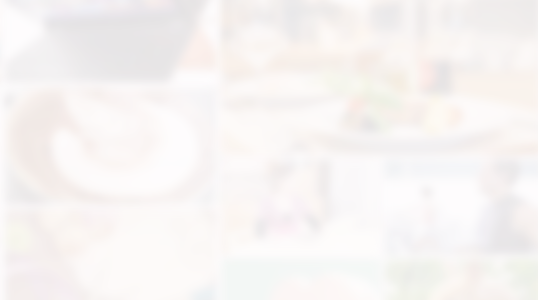
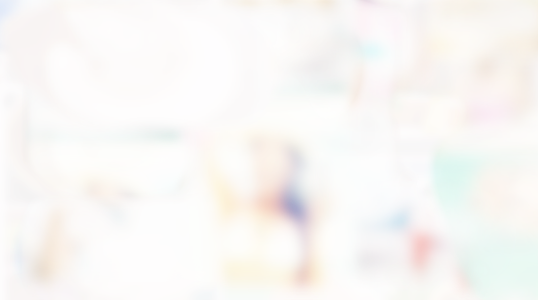
homepage collage, login bg, fix some responsive problem, add media query variables

diff --git a/index.html b/index.html
@@ -46,7 +46,7 @@
             <form class="navbar-form navbar-left" role="search" action="/search-result.php" method="POST">
               <div class="form-group t5-nav-search">
                 <input type="text" name="keyword" class="form-control typeahead" placeholder="Search for people, lists, things, etc...">
-				<button type="submit"></button>
+				        <button type="submit"></button>
               </div>
             </form>
 <!--
@@ -55,24 +55,11 @@
             </ul>
 -->
             
-            <!-- ***User - Name & Setting button*** -->
-<!--
             <ul class="nav navbar-nav navbar-right">
-              <li class="username light">dorisxian</li>
-
-              <li class="dropdown user-menu">
-                <a href="#" class="dropdown-toggle" data-toggle="dropdown"><i class="glyphicon glyphicon-user"></i><b class="caret"></b></a>
-                <ul class="dropdown-menu">
-                  <li><a href="#"><i class="fa fa-gear fa-lg"></i><span class="user-menu-text">Settings</span></a></li>
-                  <li class="divider"></li>
-                  <li><a href="#"><i class="fa fa-sign-out fa-lg"></i><span class="user-menu-text">Logout</span></a></li>
-                </ul>
-              </li>
+              <li class="username light" style="color: #F13D0B;">Welcome, guest!</li>
             </ul>
--->
-
             <!--  ***Guest - Login & Sign Up*** -->
-            <ul class="nav navbar-nav navbar-right">
+<!--             <ul class="nav navbar-nav navbar-right">
               <li class="dropdown">
                <a href="" class="dropdown-toggle" data-toggle="dropdown">Sign Up<b class="caret"></b></a>
                <ul class="dropdown-menu" style="padding: 15px;min-width: 250px;">
@@ -136,7 +123,7 @@
                     </a>
                  </ul>
               </li>
-            </ul>
+            </ul> -->
 
             <div class="col-md-1"></div>
           </div><!-- /.navbar-collapse -->
@@ -144,33 +131,21 @@
       </div><!-- /.container-fluid -->
     </nav>
 
-<!--
-	<div id='t5-topbar'>
-		<img id='t5-logo' src='img/top5-logo.png'>
-		<div class='container'>
-			<div id='t5-search-wrap'>
-				<input id='t5-search'>
-			</div>
-			<span id='t5-welcome'>Welcome, guest !</span>
-		</div>
-	</div>   
--->
-
 	<div id='t5-banner'>
 		<div id='t5-banner-mask'></div>			
 		<div id='t5-banner-collage'></div>
 		
 		<div class='container'>
 			<div class='row' id='t5-banner-row'>
-				<div class='col-lg-2 col-md-2'>
+				<div class='col-lg-2 col-md-2 col-sm-3 col-xs-2'>
 					<img id='t5-title' src='img/top5-title.png'>
 				</div>
 				
-				<div class='col-lg-5 col-md-4' id='t5-headline-col'>
+				<div class='col-lg-5 col-md-4 col-sm-8 col-xs-6' id='t5-headline-col'>
 					<div id='t5-headline'>A Top 5 List Community that sets out <p> to know the best in life !</div>
 				</div>
 			
-				<div id='t5-login-col'>
+				<div id='t5-login-col' class="hidden-sm hidden-xs">
 					<div id='t5-login'>
 						<div id='t5-login-mask'></div>			
 						<div id='t5-login-collage'></div>
@@ -178,13 +153,13 @@
 						<h3 id='t5-login-title'>Sign in to your account</h3>
 						<table id='t5-login-table'>
 							<tr>
-								<td>Email : </td>
-								<td><input id='t5-username'></td>
+								<td>Username : </td>
+								<td><input id='t5-username' type="text" required></td>
 								<td>Login with</td>
 							</tr>
 							<tr>
 								<td>Password : </td>
-								<td><input id='t5-password'></td>
+								<td><input id='t5-password' type="password" required></td>
 								<td>
 									<span class='t5-social'></span>
 									<span class='t5-social'></span>

diff --git a/css/index.css b/css/index.css
@@ -38,6 +38,9 @@ body {
 .t5-container {
   max-width: 750px;
 }
+.navbar {
+  margin-bottom: 0;
+}
 .fa-lg {
   font-size: 1.7em;
 }
@@ -295,8 +298,15 @@ h4.t5-sr-title {
   color: white;
   text-align: center;
   font-size: 26px;
-  font-weight: lighter;
+  font-family: "HelveticaNeueThin", "HelveticaNeue-Thin", "Helvetica Neue Thin", "HelveticaNeue", "Helvetica Neue", 'TeXGyreHerosRegular', "Arial", sans-serif;
+  font-weight: 200;
+  letter-spacing: 0.5px;
   letter-spacing: 1px;
+}
+@media (max-width: 768px) {
+  #t5-headline {
+    font-size: 20px;
+  }
 }
 #t5-login-col {
   position: absolute;
@@ -359,6 +369,15 @@ h4.t5-sr-title {
   background-color: transparent;
   border: none;
   border-bottom: 1px solid #959595;
+  outline: none;
+}
+#t5-username:focus,
+#t5-password:focus {
+  border-color: #f13d0b;
+  font-family: "HelveticaNeueLight", "HelveticaNeue-Light", "Helvetica Neue Light", "HelveticaNeue", "Helvetica Neue", 'TeXGyreHerosRegular', "Helvetica", "Tahoma", "Geneva", "Arial", sans-serif;
+  font-weight: 300;
+  letter-spacing: 0.4px;
+  color: #353535;
 }
 #t5-remember {
   /*
@@ -376,9 +395,12 @@ h4.t5-sr-title {
   font-weight: inherit;
 }
 #t5-register-btn {
-  background-color: transparent;
+  background-color: white;
   border: 1px solid #f13d0b;
-  color: ;
+  opacity: 0.85;
+  font-family: "HelveticaNeueLight", "HelveticaNeue-Light", "Helvetica Neue Light", "HelveticaNeue", "Helvetica Neue", 'TeXGyreHerosRegular', "Helvetica", "Tahoma", "Geneva", "Arial", sans-serif;
+  font-weight: 300;
+  letter-spacing: 0.4px;
 }
 .t5-social {
   position: relative;
@@ -450,7 +472,7 @@ h4.t5-sr-title {
 }
 #t5-login-mask {
   background-color: white;
-  opacity: 0.95;
+  opacity: 0.99;
   background-image: url("../img/login-bg.png");
 }
 /*

diff --git a/less/index.less b/less/index.less
@@ -88,10 +88,14 @@
   color:white;
   text-align:center;
   font-size:26px;
-  font-weight:lighter;
+  .thin;
   letter-spacing:1px;
 }
-
+@media (max-width: @screen-xs-max) {
+  #t5-headline{
+    font-size: 20px;
+  }
+}
 #t5-login-col
 {
   position:absolute;
@@ -168,6 +172,12 @@
   background-color:transparent;
   border:none;
   border-bottom:1px solid @gray-light;
+  outline: none;
+  &:focus{
+    border-color: @brand-primary;
+    .light;
+    color: @gray-dark;
+  }
 }
 #t5-remember
 {
@@ -188,9 +198,10 @@
 }
 #t5-register-btn
 {
-  background-color:transparent;
+  background-color:white;
   border:1px solid @brand-primary;
-  color:;
+  opacity: 0.85;
+  .light;
 }
 
 .t5-social
@@ -283,7 +294,7 @@
 #t5-login-mask
 {
   background-color:white;
-  opacity:0.95;
+  opacity:0.99;
   background-image: url("../img/login-bg.png");
 }
 /*

diff --git a/less/style.less b/less/style.less
@@ -15,6 +15,11 @@ body{
   max-width:750px;
 }
 
+// Media Queries
+@screen-xs-max: 768px;
+@screen-sm-min: @screen-xs-max;
+@screen-md-min: 992px;
+@screen-lg-min: 1200px;
 
 // Nav Bar
 

diff --git a/css/search-result.css b/css/search-result.css
@@ -38,6 +38,9 @@ body {
 .t5-container {
   max-width: 750px;
 }
+.navbar {
+  margin-bottom: 0;
+}
 .fa-lg {
   font-size: 1.7em;
 }
